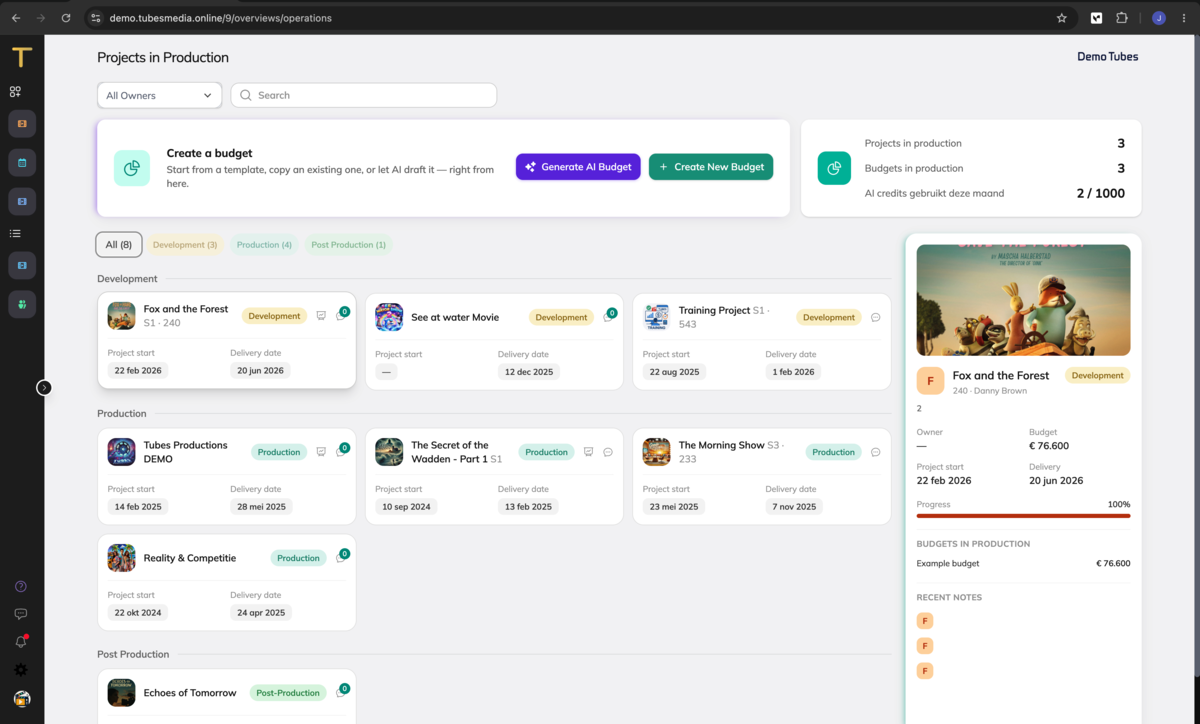
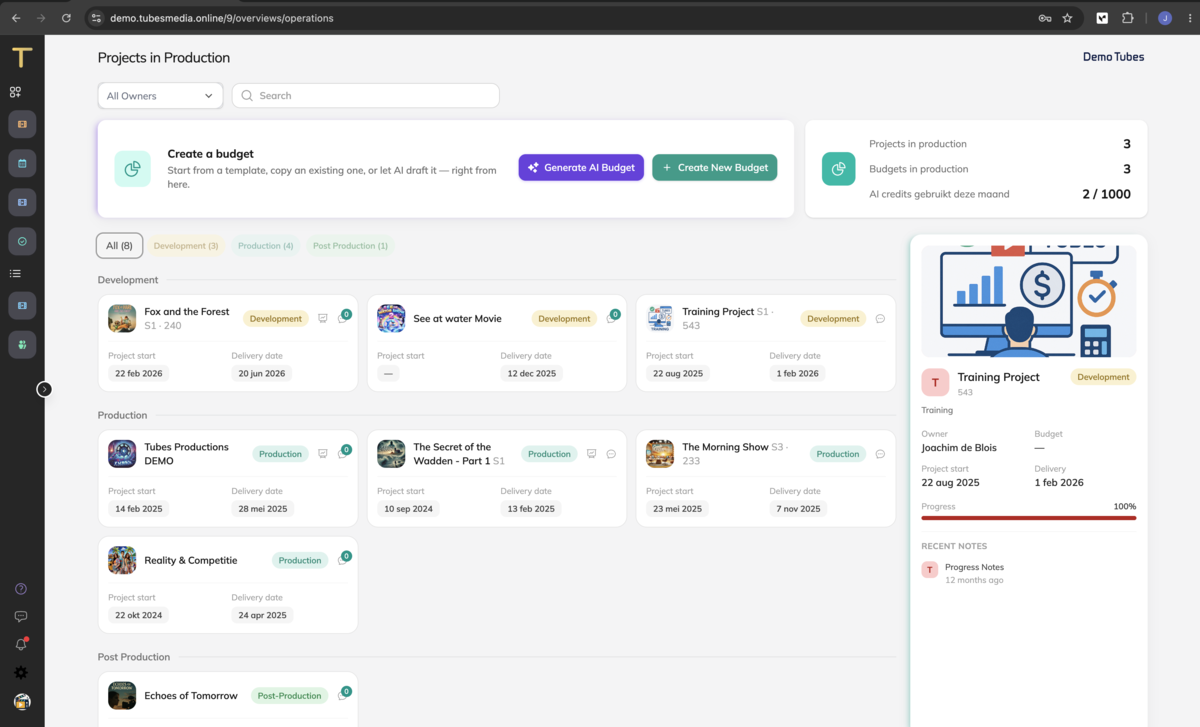
Hero: nog 5% groter, kaartjes minder ver uitlopend, nieuwe screenshot
Schaal van img/viewfinder naar 1.10, offset van de gestapelde
kaartjes erachter verkleind (22/22->14/14 en 46/42->26/24, mobiel
12->8) zodat ze minder ruimte innemen nu het beeld zelf groter is.
example-tubes-02.png vervangen door de nieuwste Projects-screenshot
(Training Project geselecteerd).

diff --git a/src/css/style.css b/src/css/style.css
@@ -332,7 +332,7 @@ a:hover { color: var(--action); }
 .section-hero .hero-media::before {
   content: "";
   position: absolute; inset: 0; z-index: 1;
-  transform: translate(22px, 22px) rotate(2deg);
+  transform: translate(14px, 14px) rotate(2deg);
   background: #DFEAFB;
   border-radius: var(--radius-card);
 }
@@ -340,7 +340,7 @@ a:hover { color: var(--action); }
 .section-hero .hero-media::after {
   content: "";
   position: absolute; inset: 0; z-index: 0;
-  transform: translate(46px, 42px) rotate(4deg);
+  transform: translate(26px, 24px) rotate(4deg);
   background: rgba(45, 108, 196, 0.07);
   border-radius: var(--radius-card);
 }
@@ -361,7 +361,7 @@ a:hover { color: var(--action); }
 .section-hero .hero-media img,
 .section-hero .hero-media video {
   position: relative; z-index: 2;
-  transform: scale(1.05);
+  transform: scale(1.1);
 }
 .section-hero .hero-media img[src$=".jpeg"],
 .section-hero .hero-media img[src$=".jpg"] { aspect-ratio: 4 / 3; }
@@ -898,7 +898,7 @@ a:hover { color: var(--action); }
   .hero-grid, .feature-grid, .split-grid, .contact-grid,
   .compare-grid, .tour-panel.is-active { grid-template-columns: 1fr; }
   .section-hero .hero-media { margin-right: 12px; }
-  .section-hero .hero-media::before { transform: translate(12px, 12px) rotate(1.5deg); }
+  .section-hero .hero-media::before { transform: translate(8px, 8px) rotate(1.5deg); }
   .media-left .feature-text { order: 1; }
   .media-left .feature-media { order: 2; }
   .cards-3 { grid-template-columns: 1fr 1fr; }
@@ -975,7 +975,7 @@ a:hover { color: var(--action); }
 .viewfinder {
   position: absolute; inset: 12px; z-index: 3;
   pointer-events: none;
-  transform: scale(1.05);
+  transform: scale(1.1);
   filter: drop-shadow(0 1px 3px rgba(0, 0, 0, 0.35));
 }
 .viewfinder::before,
